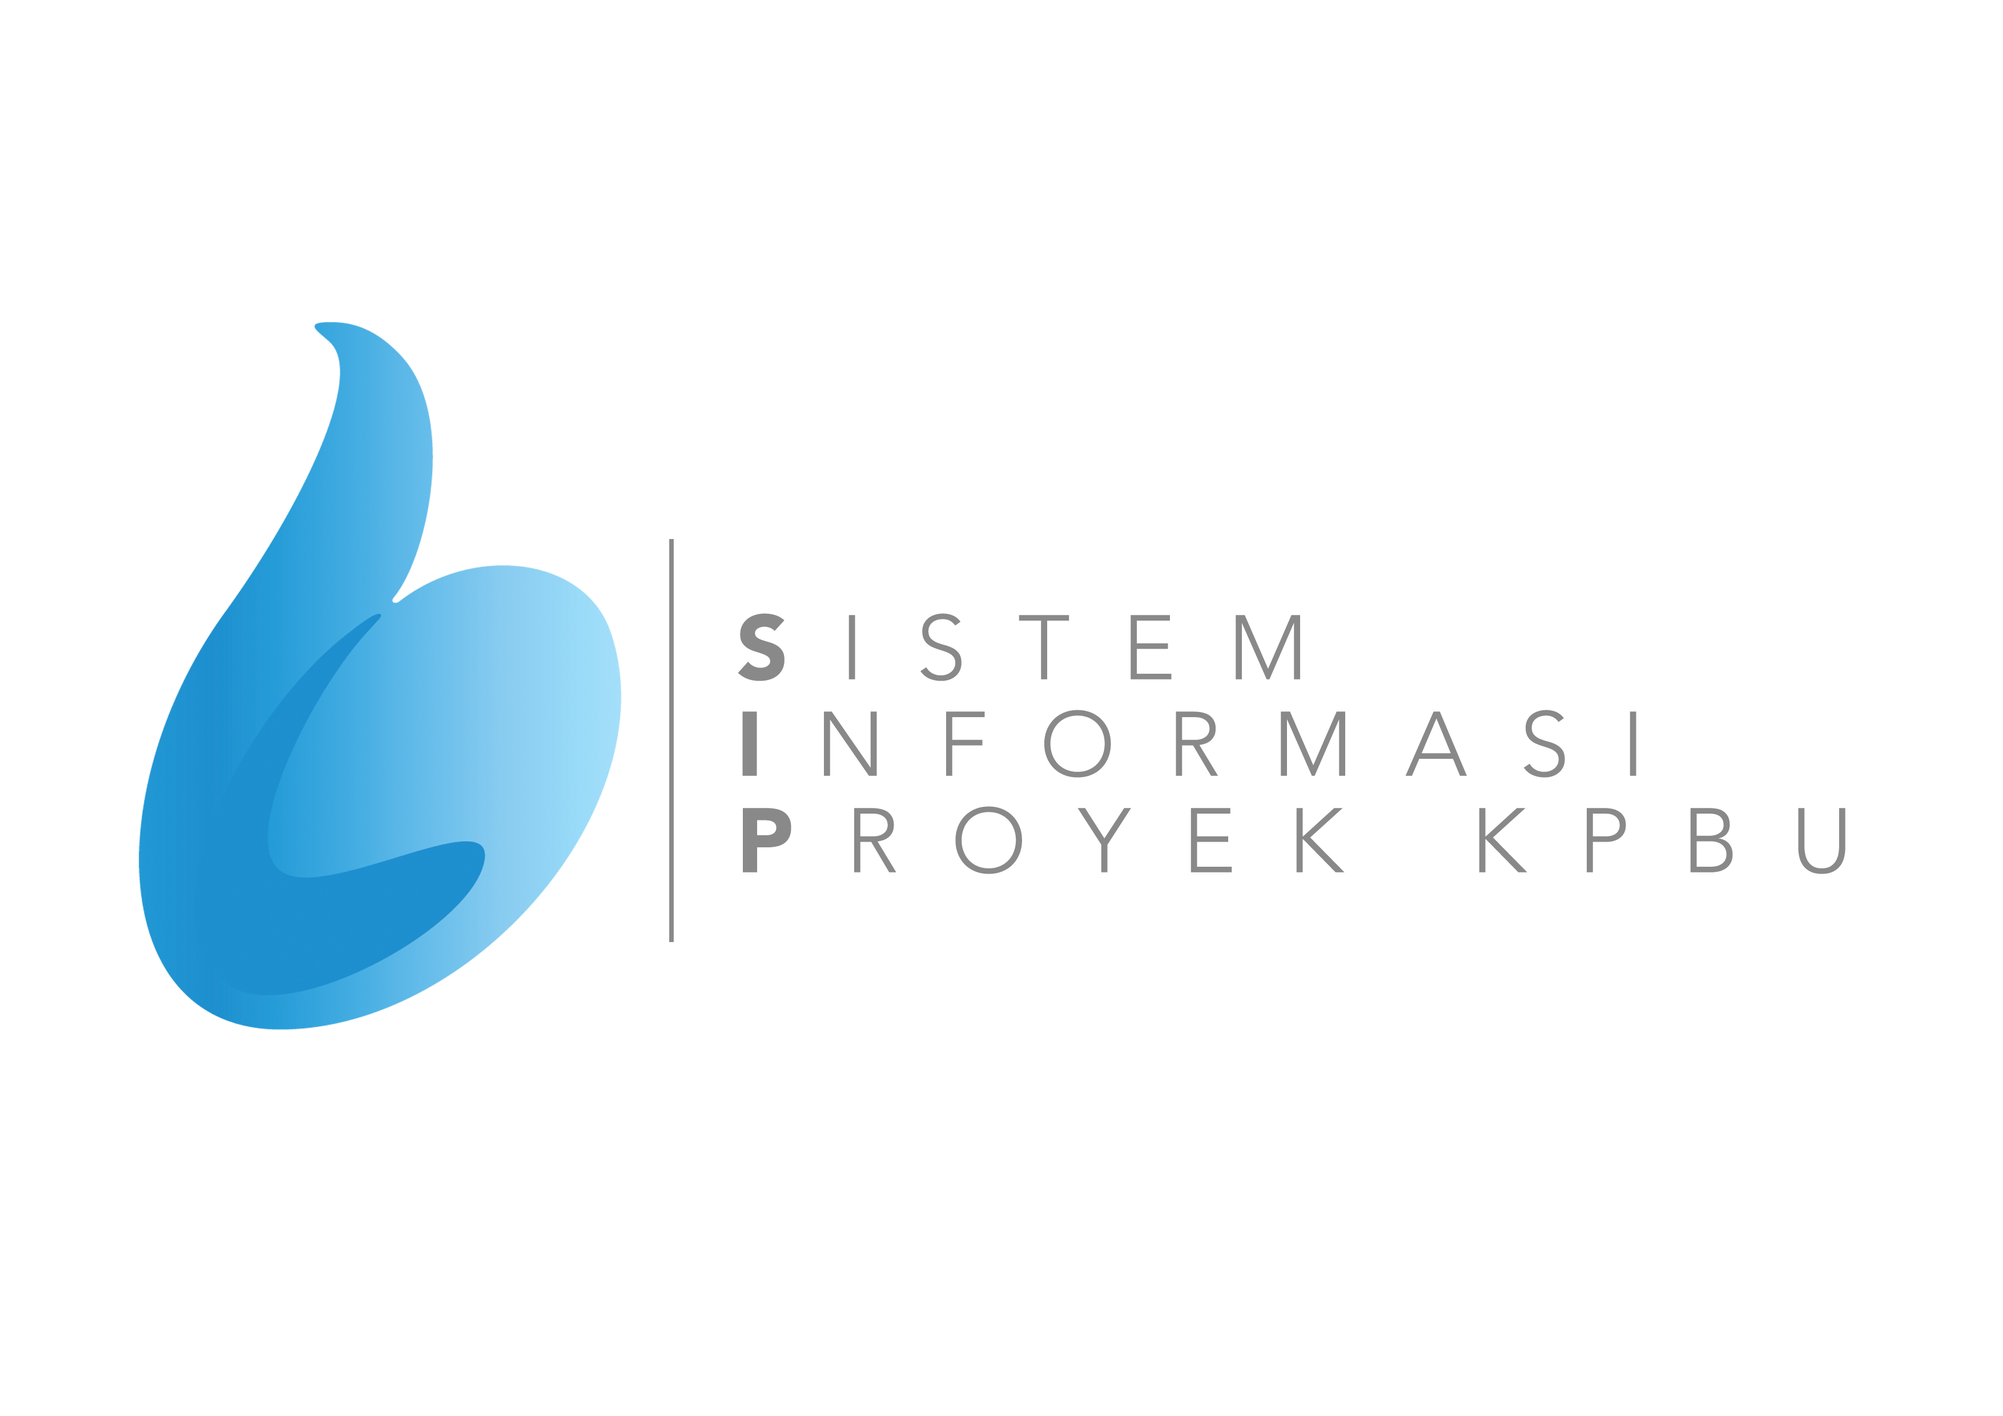
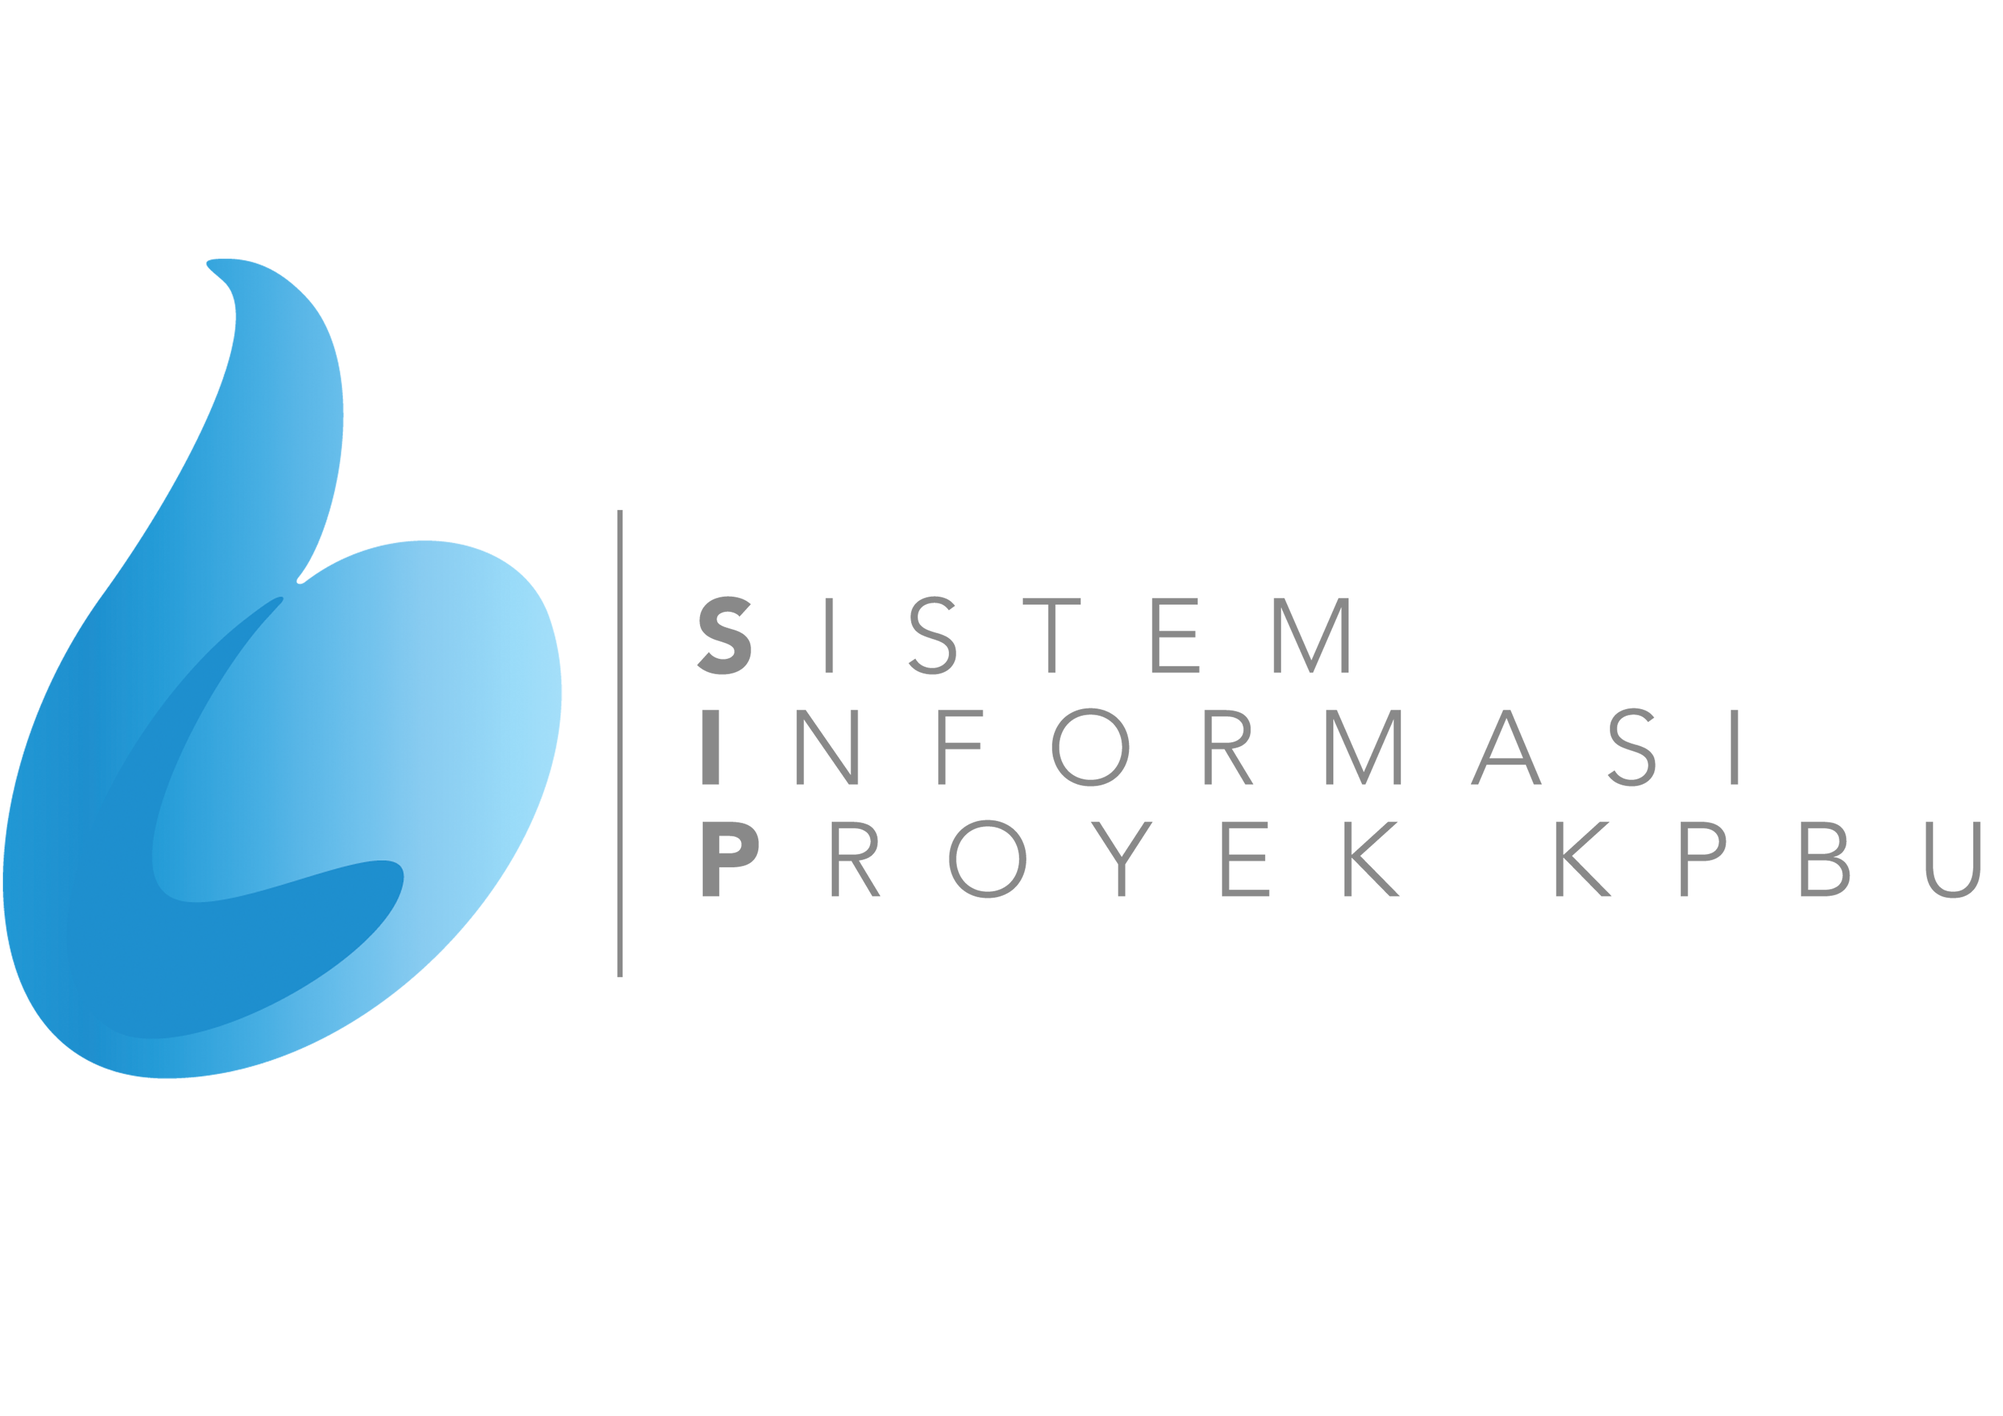
sidebar on all admin done, but not finishing all and adding function Dashboard controller

diff --git a/application/views/akses/admin/header_portal.php b/application/views/akses/admin/header_portal.php
@@ -5,7 +5,8 @@
   <meta http-equiv="X-UA-Compatible" content="IE=edge">
    <base href="<?php echo base_url() ?>">
   <title>Aplikasi Scanning System</title>
-  <link rel="icon" type="image/png" href="<?=base_url('assets/login/images/sip1.png');?>"/>
+  
+  <link rel="icon" type="image/png" href="<?=base_url('assets/login/images/sip2.png');?>"/>
   <!-- Tell the browser to be responsive to screen width -->
   <meta content="width=device-width, initial-scale=1, maximum-scale=1, user-scalable=no" name="viewport">
   <!-- Bootstrap 3.3.6 -->
@@ -125,7 +126,7 @@
       <!-- mini logo for sidebar mini 50x50 pixels -->
       <span class="logo-mini"><b>S</b>IP</span>
       <!-- logo for regular state and mobile devices -->
-      <span><img width="100%" height="60px;" src="<?=base_url('assets/dashboard/images/SIP 3.png');?>" /></span>
+      <span><img width="60px" height="35px;" src="<?=base_url('assets/dashboard/images/sip2.png');?>" /></span>
     </a>
 
     <!-- Header Navbar: style can be found in header.less -->
@@ -222,6 +223,7 @@
          $count_dataproyekuser = $this->db->query($sql)->num_rows();
 
       ?>
+
   <aside class="main-sidebar">
     <!-- sidebar: style can be found in sidebar.less -->
     <section class="sidebar">
@@ -244,39 +246,44 @@
                <li class=""><a href="superadm/provinsi"><i class="glyphicon glyphicon-chevron-right"></i><span>Provinsi</span></a></li>
                <li class=""><a href="superadm/kotakabu"><i class="glyphicon glyphicon-chevron-right"></i><span>Kota Kabupaten</span></a></li> -->
         <?php if($this->session->userdata("role") == 2){ ?>
-               <li class="<?php echo $active1['dashboard']?>"><a href="dashboard"><i class="glyphicon glyphicon-blackboard"></i><span>Dashboard</span></a></li>
-               <li class=""><a href="dashboard/submissionpage"><i class="glyphicon glyphicon-hdd"></i><span>Master Data</span></a></li>
+               <li class="<?php echo $active1?>"><a href="dashboard"><i class="glyphicon glyphicon-blackboard"></i><span>Dashboard</span></a></li>
+               <li class="<?php echo $active2?>"><a href="dashboard/submissionpage"><i class="glyphicon glyphicon-hdd"></i><span>Master Data</span></a></li>
                <li class="header">Data Proyek</li>
-               <li class=""><a href="dashboard/submitprofilstatus/high/?ss=high"><i class="glyphicon glyphicon-folder-open"></i><span>High</span></a></li>
-               <li class=""><a href="dashboard/submitprofilstatus/medium/?ss=medium"><i class="glyphicon glyphicon-folder-open"></i><span>Medium</span></a></li>
-               <li class=""><a href="dashboard/submitprofilstatus/low/?ss=low"><i class="glyphicon glyphicon-folder-open"></i><span>Low</span></a></li>
-               <li class=""><a href="dashboard/submitprofilstatus/kembali/?ss=kembali"><i class="glyphicon glyphicon-folder-open"></i><span>Kembali</span><small class="label pull-right bg-red"><?php echo $count_kembali; ?></small></a></li>
+               <li class="<?php echo $active3?>"><a href="dashboard/submitprofilstatushigh/high/?ss=high"><i class="glyphicon glyphicon-folder-open"></i><span>High</span></a></li>
+               <li class="<?php echo $active4?>"><a href="dashboard/submitprofilstatusmedium/medium/?ss=medium"><i class="glyphicon glyphicon-folder-open"></i><span>Medium</span></a></li>
+               <li class="<?php echo $active5?>"><a href="dashboard/submitprofilstatuslow/low/?ss=low"><i class="glyphicon glyphicon-folder-open"></i><span>Low</span></a></li>
+               <li class="<?php echo $active6?>"><a href="dashboard/submitprofilstatuskembali/kembali/?ss=kembali"><i class="glyphicon glyphicon-folder-open"></i><span>Kembali</span><small class="label pull-right bg-red"><?php echo $count_kembali; ?></small></a></li>
                <li class="header">Other</li>
-               <li class=""><a href="dashboard/datauser"><i class="glyphicon glyphicon-user"></i><span>User</a></span></li>
+               <li class="<?php echo $active7?>"><a href="dashboard/datauser"><i class="glyphicon glyphicon-user"></i><span>User</a></span></li>
+
         <?php }else if($this->session->userdata("role") == 3){ ?>
-               <li class=""><a href="dashboard"><i class="glyphicon glyphicon-blackboard"></i><span>Dashboard</span></a></li>
-               <li class=""><a href="dashboard/submissionpage"><i class="glyphicon glyphicon-hdd"></i><span>Master Data</span></a></li>
+               <li class="<?php echo $active1?>"><a href="dashboard"><i class="glyphicon glyphicon-blackboard"></i><span>Dashboard</span></a></li>
+               <li class="<?php echo $active2?>"><a href="dashboard/submissionpage"><i class="glyphicon glyphicon-hdd"></i><span>Master Data</span></a></li>
                <li class=""><a href="dashboard/submitprofilstatus/dataproyek?ss=dataproyek"><i class="glyphicon glyphicon-folder-open"></i><span>Data Proyek</span><small class="label pull-right bg-red"><?php echo $count_apl; ?></small></a></li>
                <li class="header">Other</li>
                <li class=""><a href="dashboard/datauser"><i class="glyphicon glyphicon-user"></i><span>User</a></span></li>
+
         <?php }else if($this->session->userdata("role") == 4){ ?>
-               <li class=""><a href="dashboard"><i class="glyphicon glyphicon-blackboard"></i><span>Dashboard</span></a></li>
-               <li class=""><a href="dashboard/submissionpage"><i class="glyphicon glyphicon-hdd"></i><span>Master Data</span></a></li>
+               <li class="<?php echo $active1?>"><a href="dashboard"><i class="glyphicon glyphicon-blackboard"></i><span>Dashboard</span></a></li>
+               <li class="<?php echo $active2?>"><a href="dashboard/submissionpage"><i class="glyphicon glyphicon-hdd"></i><span>Master Data</span></a></li>
                <li class=""><a href="dashboard/submitprofilstatus/dataproyek?ss=dataproyek"><i class="glyphicon glyphicon-folder-open"></i><span>Data Proyek</span><small class="label pull-right bg-red"><?php echo $count_apl; ?></small></a></li>
                <li class="header">Other</li>
                <li class=""><a href="dashboard/datauser"><i class="glyphicon glyphicon-user"></i><span>User</a></span></li>
+
         <?php }else if($this->session->userdata("role") == 5){ ?>
-               <li class=""><a href="dashboard"><i class="glyphicon glyphicon-blackboard"></i><span>Dashboard</span></a></li>
-               <li class=""><a href="dashboard/submissionpage"><i class="glyphicon glyphicon-hdd"></i><span>Master Data</span></a></li>
+               <li class="<?php echo $active1?>"><a href="dashboard"><i class="glyphicon glyphicon-blackboard"></i><span>Dashboard</span></a></li>
+               <li class="<?php echo $active2?>"><a href="dashboard/submissionpage"><i class="glyphicon glyphicon-hdd"></i><span>Master Data</span></a></li>
                <li class=""><a href="dashboard/submitprofilstatus/dataproyek?ss=dataproyek"><i class="glyphicon glyphicon-folder-open"></i><span>Data Proyek</span><small class="label pull-right bg-red"><?php echo $count_dataproyekuser; ?></small></a></li>
                <li class="header">Other</li>
                <li class=""><a href="dashboard/datauser"><i class="glyphicon glyphicon-user"></i><span>User</a></span></li>
+
         <?php }else if($this->session->userdata("role") == 6){ ?>
-               <li class=""><a href="dashboard"><i class="glyphicon glyphicon-blackboard"></i><span>Dashboard</span></a></li>
-               <li class=""><a href="dashboard/submissionpage"><i class="glyphicon glyphicon-hdd"></i><span>Master Data</span></a></li>
+               <li class="<?php echo $active1?>"><a href="dashboard"><i class="glyphicon glyphicon-blackboard"></i><span>Dashboard</span></a></li>
+               <li class="<?php echo $active2?>"><a href="dashboard/submissionpage"><i class="glyphicon glyphicon-hdd"></i><span>Master Data</span></a></li>
                <li class=""><a href="dashboard/submitprofilstatus/dataproyek?ss=dataproyek"><i class="glyphicon glyphicon-folder-open"></i><span>Data Proyek</span><small class="label pull-right bg-red"><?php echo $count_dataproyek; ?></small></a></li>
                <li class="header">Other</li>
                <li class=""><a href="dashboard/datauser"><i class="glyphicon glyphicon-user"></i><span>User</a></span></li>
+               
         <?php }else{ ?>
                <li class=""><a href="dashboard"><i class="glyphicon glyphicon-blackboard"></i><span>Dashboard</span></a></li>
                <li class=""><a href="dashboard/submissionpage"><i class="glyphicon glyphicon-hdd"></i><span>Master Data</span></a></li>

diff --git a/application/controllers/Dashboard.php b/application/controllers/Dashboard.php
@@ -26,6 +26,8 @@ class Dashboard extends CI_Controller {
 		$this->load->model('Home_model');
 		$this->load->library('Pdf');
 
+		$sid = $this->session->userdata("username");
+
 		$this->load->library('session');
  		
  		if ($this->session->userdata('username')) {
@@ -38,9 +40,14 @@ class Dashboard extends CI_Controller {
 
 	public function index()
 	{
+		$sid = $this->session->userdata("username");
+		// var_dump($sid);exit;
+
 		$data['active1'] = 'active';
+		// var_dump($data);exit;
+
 		$data['active2'] = '';
-		$data['active3'] = '';
+		// $data['active3'] = '';
 
 		$data['profil'] = $this->Dashboard_model->getProfilProjek();
 		$data['status'] = $this->Dashboard_model->getstatus();
@@ -50,13 +57,13 @@ class Dashboard extends CI_Controller {
 		$data['kategoricount'] = $this->Dashboard_model->getkategoricount();
 		$data['sektorcount'] = $this->Dashboard_model->getsektorcount();
 
-		$this->load->view('akses/admin/header_portal');
+		$this->load->view('akses/admin/header_portal', $data);
         $this->load->view('akses/admin/dasboard_admin', $data);
 	}
 
 	public function datauser()
 	{
-		$data['active1'] = 'active';
+		$data['active7'] = 'active';
 		$data['active2'] = '';
 		$data['active3'] = '';
 
@@ -64,7 +71,7 @@ class Dashboard extends CI_Controller {
 		$data['sektor'] = $this->Home_model->getSektor();
 		$data['user'] = $this->Dashboard_model->getuser($_GET['filter_status']);
 
-		$this->load->view('akses/admin/header_portal');
+		$this->load->view('akses/admin/header_portal', $data);
         $this->load->view('akses/admin/data_pjpk', $data);
 	}
 
@@ -84,8 +91,8 @@ class Dashboard extends CI_Controller {
 
 	public function submissionpage()
 	{
-		$data['active1'] = 'active';
-		$data['active2'] = '';
+		$data['active1'] = '';
+		$data['active2'] = 'active';
 		$data['active3'] = '';
 		$data['profil'] = $this->Dashboard_model->getProfilProjek($_GET['filter_status']);
 		$data['user'] = $this->Dashboard_model->getuser();
@@ -93,16 +100,20 @@ class Dashboard extends CI_Controller {
 		$data['sektor'] = $this->Home_model->getSektor();
 		$data['statusinf'] = $this->Dashboard_model->get_t_status_projek();
 
-		$this->load->view('akses/admin/header_portal');
+		$this->load->view('akses/admin/header_portal', $data);
         $this->load->view('akses/admin/submission_admin', $data);
 	}
 
 	
-	public function submitprofilstatus($status)
+	public function submitprofilstatushigh($status)
 	{
-		$data['active1'] = 'active';
+		$data['active1'] = '';
 		$data['active2'] = '';
-		$data['active3'] = '';
+		$data['active3'] = 'active'; 
+		$data['active4'] = ''; 
+		$data['active5'] = ''; 
+		$data['active6'] = ''; 
+		
 		$data['user'] = $this->Dashboard_model->getuser();
 		$data['adminpii'] = $this->Dashboard_model->getadminpii();
 		$data['sektor'] = $this->Home_model->getSektor();
@@ -110,7 +121,67 @@ class Dashboard extends CI_Controller {
 
 		$data['profil'] = $this->Dashboard_model->getProfilProjekStatus($_GET['filter_status'], $status);
 
-		$this->load->view('akses/admin/header_portal');
+		$this->load->view('akses/admin/header_portal', $data);
+        $this->load->view('akses/admin/submission_admin2', $data);
+	}
+
+	public function submitprofilstatusmedium($status)
+	{
+		$data['active1'] = '';
+		$data['active2'] = '';
+		$data['active3'] = ''; 
+		$data['active4'] = 'active'; 
+		$data['active5'] = ''; 
+		$data['active6'] = ''; 
+		
+		$data['user'] = $this->Dashboard_model->getuser();
+		$data['adminpii'] = $this->Dashboard_model->getadminpii();
+		$data['sektor'] = $this->Home_model->getSektor();
+		$data['statusinf'] = $this->Dashboard_model->get_t_status_projek();
+
+		$data['profil'] = $this->Dashboard_model->getProfilProjekStatus($_GET['filter_status'], $status);
+
+		$this->load->view('akses/admin/header_portal', $data);
+        $this->load->view('akses/admin/submission_admin2', $data);
+	}
+
+	public function submitprofilstatuslow($status)
+	{
+		$data['active1'] = '';
+		$data['active2'] = '';
+		$data['active3'] = ''; 
+		$data['active4'] = ''; 
+		$data['active5'] = 'active'; 
+		$data['active6'] = ''; 
+		
+		$data['user'] = $this->Dashboard_model->getuser();
+		$data['adminpii'] = $this->Dashboard_model->getadminpii();
+		$data['sektor'] = $this->Home_model->getSektor();
+		$data['statusinf'] = $this->Dashboard_model->get_t_status_projek();
+
+		$data['profil'] = $this->Dashboard_model->getProfilProjekStatus($_GET['filter_status'], $status);
+
+		$this->load->view('akses/admin/header_portal', $data);
+        $this->load->view('akses/admin/submission_admin2', $data);
+	}
+
+	public function submitprofilstatuskembali($status)
+	{
+		$data['active1'] = '';
+		$data['active2'] = '';
+		$data['active3'] = ''; 
+		$data['active4'] = ''; 
+		$data['active5'] = ''; 
+		$data['active6'] = 'active'; 
+		
+		$data['user'] = $this->Dashboard_model->getuser();
+		$data['adminpii'] = $this->Dashboard_model->getadminpii();
+		$data['sektor'] = $this->Home_model->getSektor();
+		$data['statusinf'] = $this->Dashboard_model->get_t_status_projek();
+
+		$data['profil'] = $this->Dashboard_model->getProfilProjekStatus($_GET['filter_status'], $status);
+
+		$this->load->view('akses/admin/header_portal', $data);
         $this->load->view('akses/admin/submission_admin2', $data);
 	}
 
@@ -231,8 +302,8 @@ class Dashboard extends CI_Controller {
 
 	public function formview($idp)
 	{
-		$data['active1'] = 'active';
-		$data['active2'] = '';
+		$data['active1'] = '';
+		$data['active2'] = 'active';
 		$data['active3'] = '';
 		$data['active4'] = '';
 
@@ -254,13 +325,13 @@ class Dashboard extends CI_Controller {
 		$data['getrespon'] = $this->Home_model->getrespon($idp);
 		$data['resadmin'] = $this->Dashboard_model->getresadmin($idp);
 
-		$this->load->view('akses/admin/header_portal');
+		$this->load->view('akses/admin/header_portal', $data);
         $this->load->view('akses/admin/form_view_admin', $data);
 	}
 
 	public function formviewproyek($ss, $idp)
 	{
-		$data['active1'] = 'active';
+		$data['active5'] = 'active';
 		$data['active2'] = '';
 
 		$data['sektor'] = $this->Home_model->getSektor();
@@ -282,7 +353,7 @@ class Dashboard extends CI_Controller {
 		$data['resadmin'] = $this->Dashboard_model->getresadmin($idp);
 		$data['ss'] = $ss;
 		
-		$this->load->view('akses/admin/header_portal');
+		$this->load->view('akses/admin/header_portal', $data);
         $this->load->view('akses/admin/form_view_admin2', $data);
 	}
 

diff --git a/application/views/akses/user/header_user.php b/application/views/akses/user/header_user.php
@@ -6,7 +6,7 @@
    <base href="<?php echo base_url() ?>">
   <title>SIP</title>
   <!-- Tell the browser to be responsive to screen width -->
-  <link rel="icon" type="image/png" href="<?=base_url('assets/login/images/sip1.png');?>"/>
+  <link rel="icon" type="image/png" href="<?=base_url('assets/login/images/sip2.png');?>"/>
   <meta content="width=device-width, initial-scale=1, maximum-scale=1, user-scalable=no" name="viewport">
   <!-- Bootstrap 3.3.6 -->
   <link rel="stylesheet" href="assets/dashboard/bootstrap/css/bootstrap.min.css">
@@ -133,7 +133,7 @@
       <!-- mini logo for sidebar mini 50x50 pixels -->
       <span class="logo-mini"><b>S</b>IP</span>
       <!-- logo for regular state and mobile devices -->
-      <span><img width="100%" height="60px;" src="<?=base_url('assets/dashboard/images/SIP 3.png');?>" /></span>
+      <span><img width="60px" height="35px;" src="<?=base_url('assets/login/images/sip2.png');?>" /></span>
     </a>
 
     <!-- Header Navbar: style can be found in header.less -->

diff --git a/application/views/login/login.php b/application/views/login/login.php
@@ -6,7 +6,7 @@
 	<base href="<?php echo base_url() ?>">
 	<meta name="viewport" content="width=device-width, initial-scale=1">
 <!--===============================================================================================-->	
-	<link rel="icon" type="image/png" href="<?=base_url('assets/login/images/sip3.png');?>"/>
+	<link rel="icon" type="image/png" href="<?=base_url('assets/login/images/sip2.png');?>"/>
 <!--===============================================================================================-->
 	<link rel="stylesheet" type="text/css" href="assets/login/vendor/bootstrap/css/bootstrap.min.css">
 <!--===============================================================================================-->
